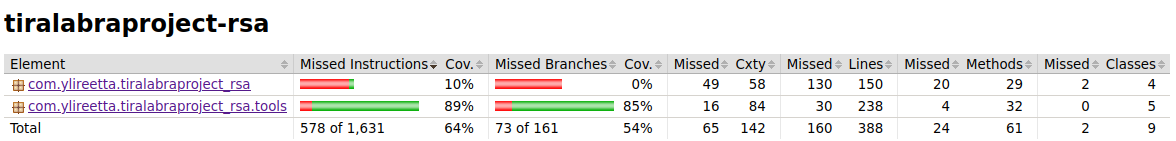
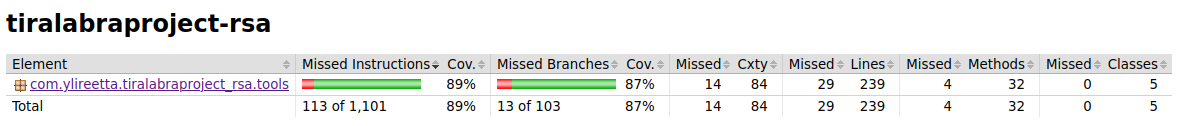
Update documentation

diff --git a/documentation/testing.md b/documentation/testing.md
@@ -1,5 +1,5 @@
 # Testing documentation
-The test coverage of the project is 64 % in total. Automatic tests for `UserInterface`, `PublicKey` and `PrivateKey` in package `com.ylireetta.tiralabraproject_rsa` have not been implemented due to the nature of those classes, which affects the total coverage. The `com.ylireetta.tiralabraproject_rsa.tools` package coverage is 89 %.
+The test coverage of the project is 89 %. Automatic tests have been written for classes in the `com.ylireetta.tiralabraproject_rsa.tools` package. Several classes have been excluded from the coverage report due to the nature of those classes (POJOs, interfaces, the UI).
 
 ![alt text](pics/coverage.png "Test coverage")
 
